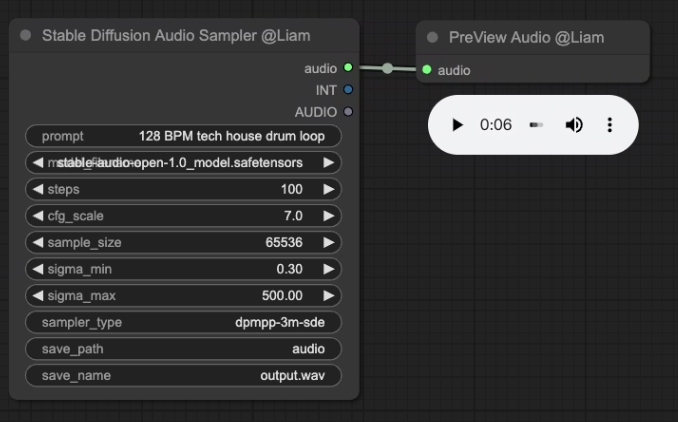
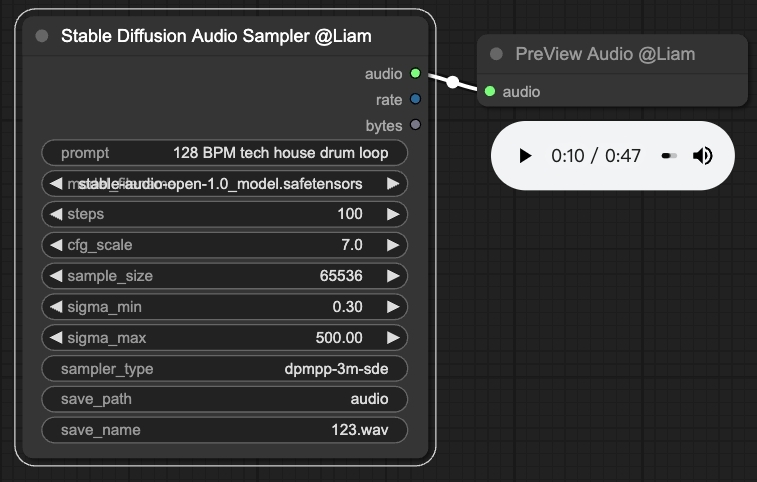
chore: change return

diff --git a/preview_audio.py b/preview_audio.py
@@ -20,8 +20,6 @@ class PreViewAudio:
 
     def load_audio(self, audio):
         audio_name = os.path.basename(audio)
-        # tmp_path = os.path.dirname(audio)
-        # audio_root = os.path.basename(tmp_path)
         subfolder = audio.replace(f"/{audio_name}","")
         print(f"audio: {audio} audio_name: {audio_name}, subfolder: {subfolder}")
         return {"ui": {"audio":[audio_name,subfolder]}}

diff --git a/nodes.py b/nodes.py
@@ -118,7 +118,8 @@ class StableAudioSampler:
             }
         }
 
-    RETURN_TYPES = (any, "INT","AUDIO")
+    RETURN_TYPES = ("AUDIO", "INT",any)
+    RETURN_NAMES = ("audio","rate","bytes",)
     FUNCTION = "sample"
     OUTPUT_NODE = True
 
